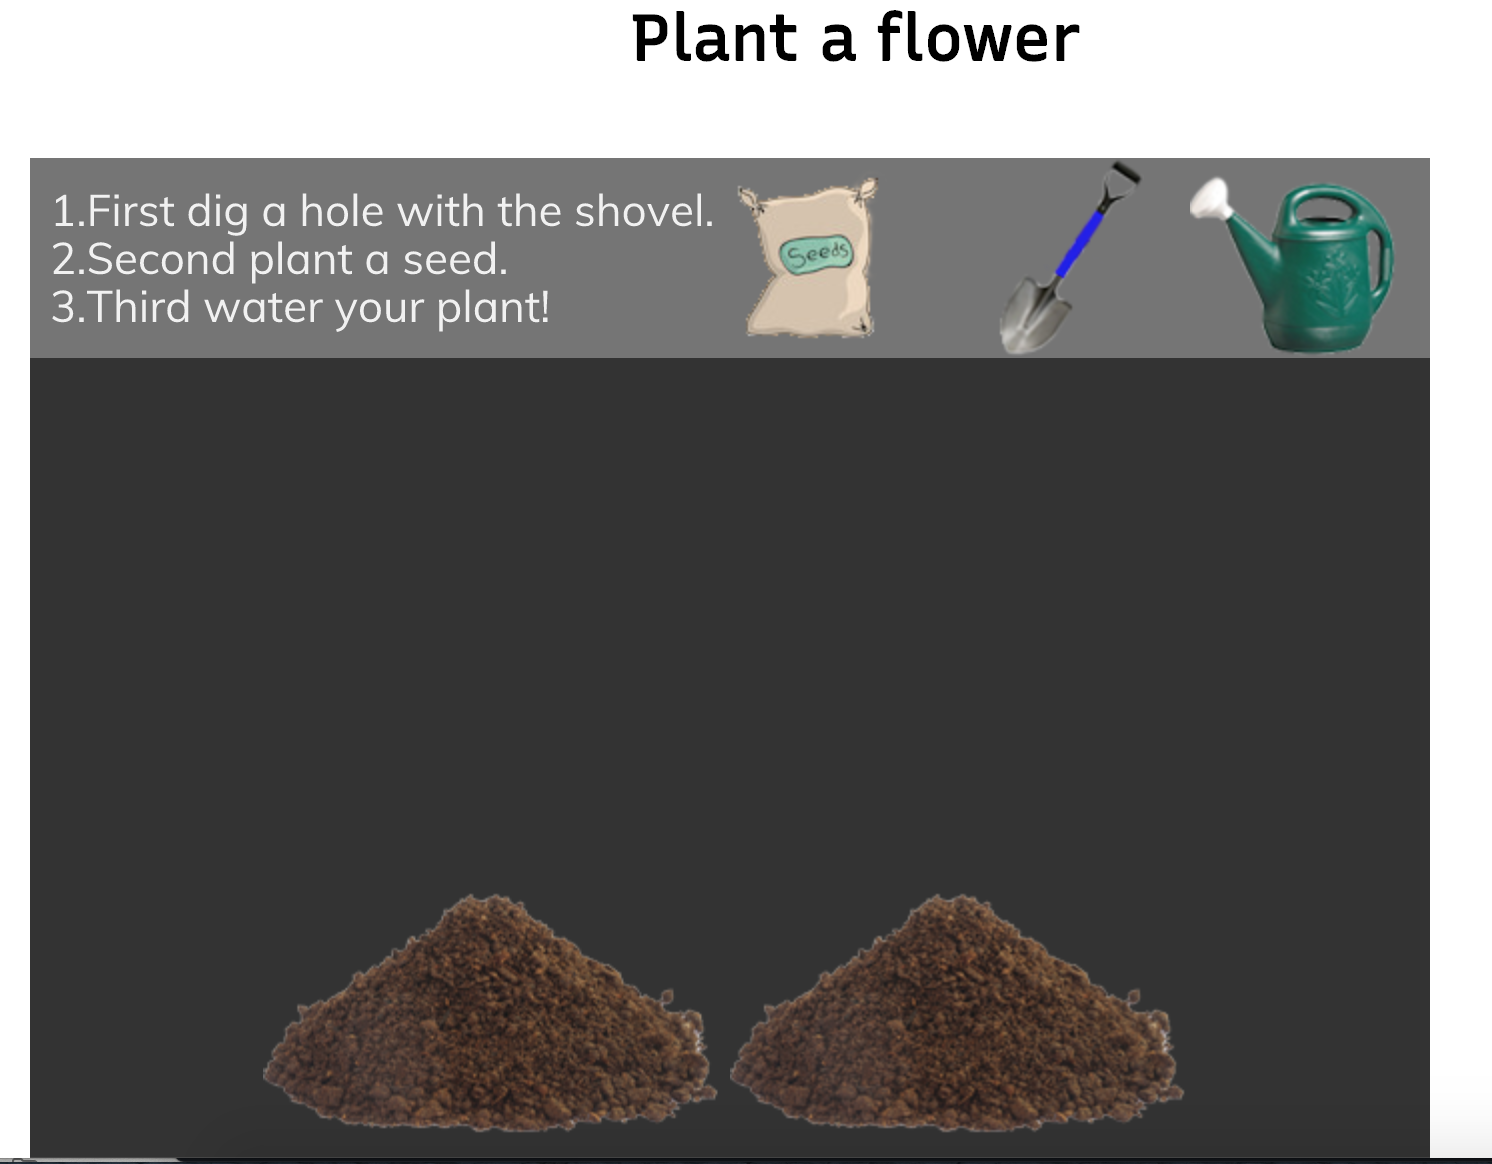
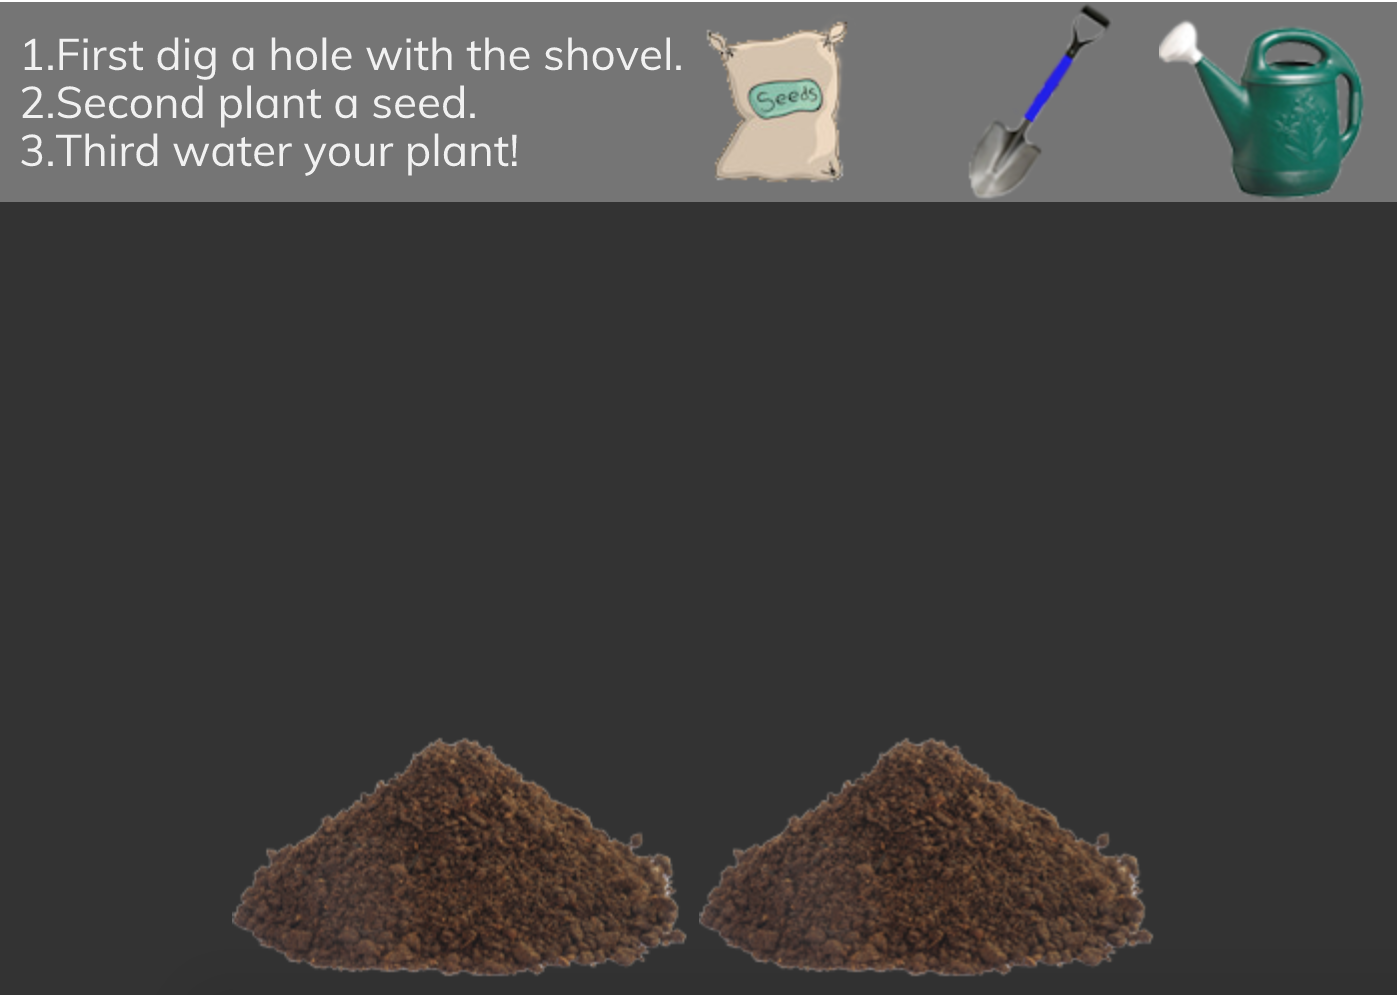
cropping the image and making it a link

diff --git a/l_chun/summergardening.html b/l_chun/summergardening.html
@@ -50,7 +50,7 @@ This page is still in development!!
   From this topic I created a Gardening Simulator. I created this creating coding piece with the thought of refreshing myself. When
 <br><br>
 Click on the link below to check it out!
-  <u>  <h2>  <a href="https://lmchun.github.io/p5/poppy_rain/index.html">Gardening</a></h1></u>
+  <u>  <h2>  <a href="https://lmchun.github.io/p5/poppy_rain/index.html">Gardening<br><img src="img/p5/gardening/planting_screenshot.png" style="width:500px"></a></h1></u>
 </p>
 
       <!-- <a href="https://lmchun.github.io/p5/poppy_rain/index.html"> <img src="img/p5/gardening/planting_screenshot.png" class="imgmain big"> -->
